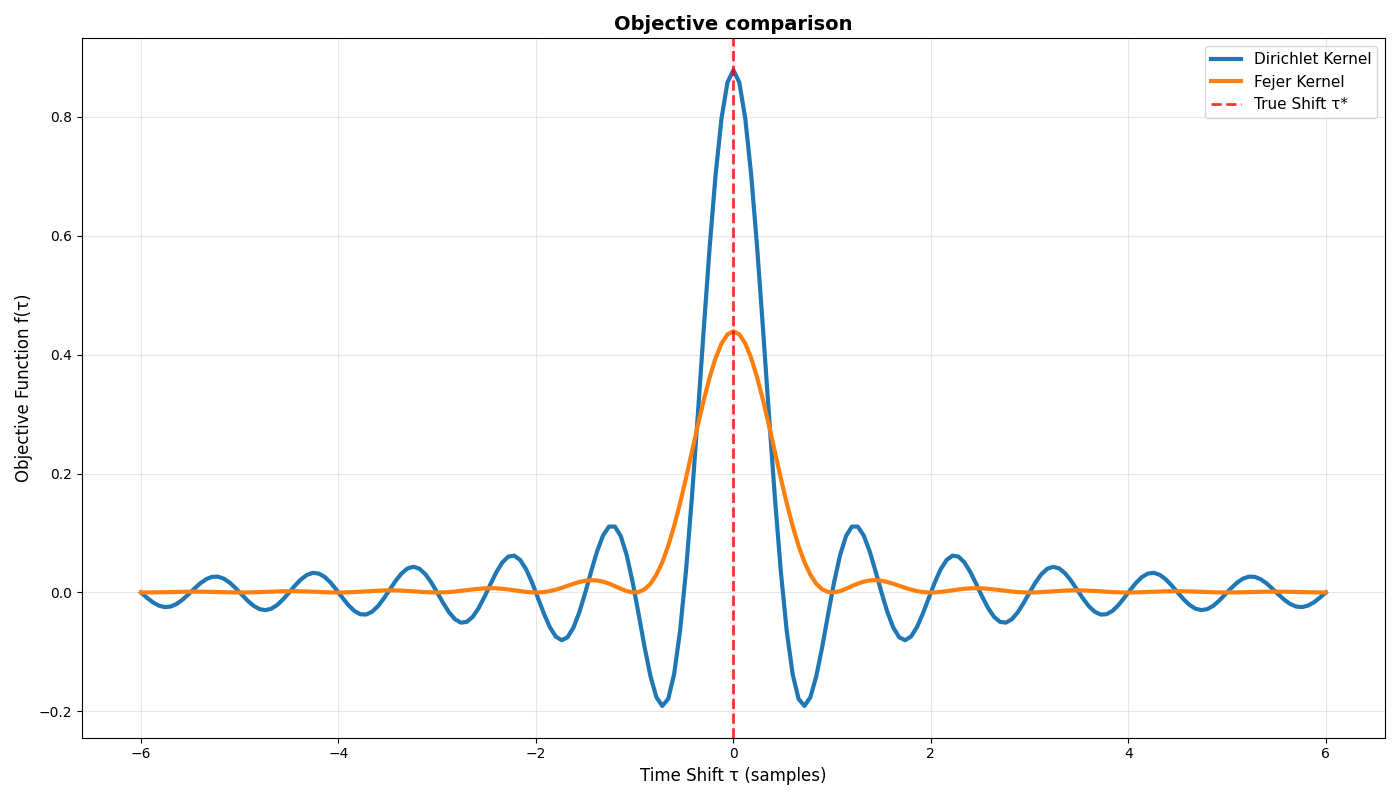
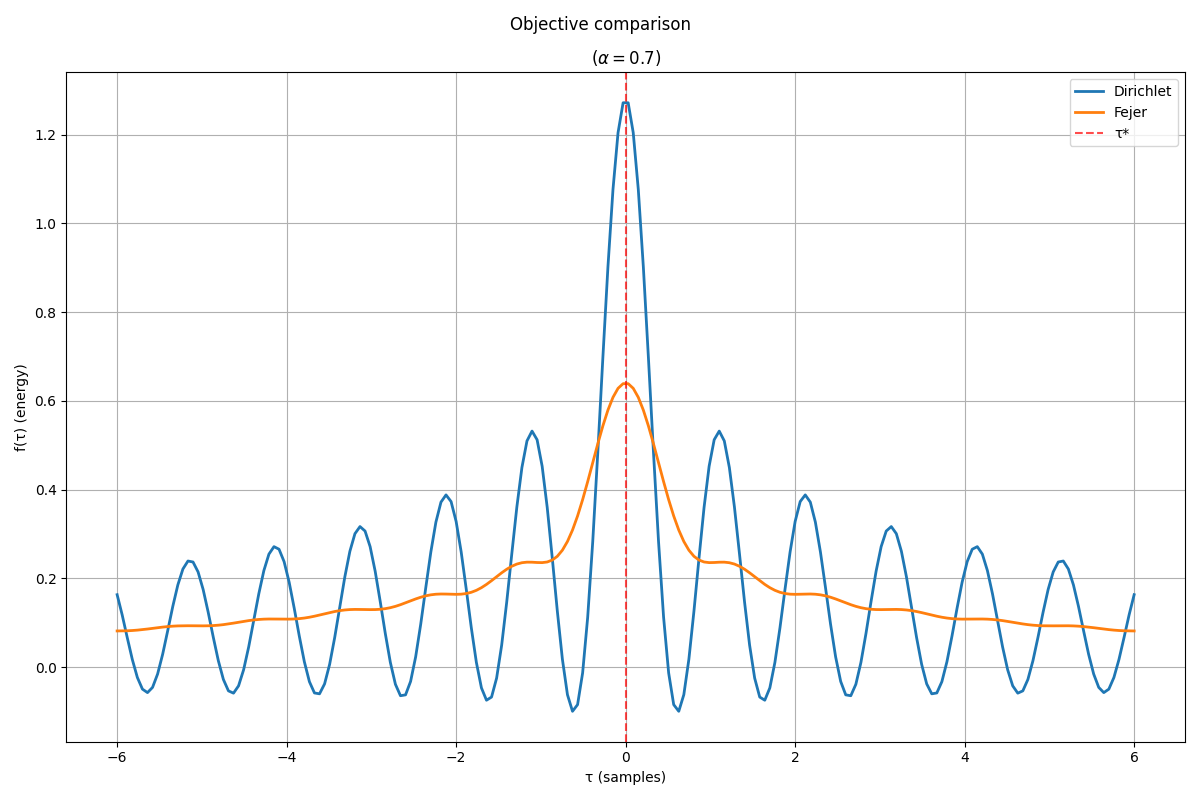
allow crawling

diff --git a/_posts/2025-10-20-optimization_pt-4.md b/_posts/2025-10-20-optimization_pt-4.md
@@ -15,9 +15,9 @@ description: "Optimization"
 ---
 As promised previously, this time we talk about cross-correlation phase transform (PHAT), a generalization of it and possible connections to our algorithm.
 This time we'll be taking a look at a 1D formulation of our problem, and see if anything new comes out of this.
-We'll also discuss occlusion models, and how they impact our Fourier formulation, as well as possible implications of this.
+We'll also discuss a potential noise model, and how it may impact our Fourier formulation.
 
-## 1D formulation
+## Problem: 1D formulation
 
 Recall that we are working with a 2D image modality. To think of the 1D formulation of the problem- imagine "slicing" a 3D motion video of dimensions (T, H, W) with respect to either horizontal/vertical axis, and looking at the intensity changes within some chosen axial 'strip' across the video, resulting in a *2D motion sequence*. 
 
@@ -78,7 +78,9 @@ plt.show()
 ![Integrated 1D](/assets/integrated_sigs.png)  
 
 Note that the integrated image begins triangular for $\tau=1$, gradually becoming trapezoidal and wider for successive integer shift values $\tau \in [2, N]$, until we can imagine it 'collapsing' to a line for arbitrarily large N. 
-Also recall from the [previous blogpost](https://ikavodo.github.io/optimization_pt-3/) that we briefly mentioned that $\operatorname{tri}(t) = \operatorname{rect}(t) \circledast \operatorname{rect}(t)$ 
+
+### Integration as a cross-correlation kernel
+Recall from the [previous blogpost](https://ikavodo.github.io/optimization_pt-3/) that we briefly mentioned that $\operatorname{tri}(t) = \operatorname{rect}(t) \circledast \operatorname{rect}(t)$ 
 
 Is this a coincidence? I think not! 
 To better understand this, let's express the integration operation in terms of a linear operation of the image with some kernel h.
@@ -169,26 +171,26 @@ $$
 </div>
 Where $\Delta n = n - n_0$.
 
-Is this a decent optimization objective? On the one hand we can be sure that by plugging in $n=n_0$ we obtain a global maxima, via 
+Is this a decent optimization objective? On the one hand plugging in $n=n_0$ we obtain a global maxima, via 
 <div>
     $$
     \frac{1}{N}\sum_{k=0}^{N-1}\cos{(\omega_k 0)} = \frac{1}{N}\sum_{k=0}^{N-1}1 \geq \sum_{k=0}^{N-1}\cos{(\omega_k \Delta n)}, n \neq n_0
     $$
 </div>
 
-On the other hand, it is enough to confirm using centered frequency tiles $k' = k - k_0, k_0=\frac{N-1}{2}$ that
+On the other hand, it is enough to confirm that
 <div>
 $$
-\sum_{k=0}^{N-1}{e^{j\omega_k (n - n_0)}} = e^{j\omega_{k_0}} \sum_{k'=-k_0}^{k_0}{e^{j\omega_{k'} (n - n_0)}} = e^{j\omega_{k_0}} * D_N(\Delta n) 
+\sum_{k=0}^{N-1}{e^{j\omega_k (n - n_0)}} = e^{j\omega_{k_0}} \sum_{k'=-\frac{N-1}{2}}^{\frac{N-1}{2}}{e^{j\omega_{k'} (n - n_0)}} = e^{j\omega_{k_0}} * D_N(\Delta n) 
 $$
 </div> 
-Where $D_N$ is the [Dirichlet kernel](https://en.wikipedia.org/wiki/Dirichlet_kernel) of order N. This can easily be factorized to
+Where we 'centered' our signal to obtain the [Dirichlet kernel](https://en.wikipedia.org/wiki/Dirichlet_kernel) of order N. This can easily be factorized to
 <div>
     $$
     D_{N}(x)=\sum _{k'=-k_0}^{k_0}e^{jk'x}=\frac {\sin \left(\frac{Nx}{2}\right)}{\sin(\frac{x}{2})}
     $$
 </div>  
-Where the right-hand form becomes highly oscillatory as N grows, meaning that this objective is insufficient for successful optimization. 
+Where the right-hand form becomes highly oscillatory as N grows, which is a big "no-no" for successful optimization. 
 
 Given what we've learned about the importance of bilinear interpolation as an effective low-pass filter in our original optimization objective, can we think of some 'equivalent' (dual) operation in the given case?
 
@@ -233,7 +235,7 @@ def fejer_weights(C: torch.Tensor):
     # normalized distance from DC [0..1]
     return 1.0 - k / (K - 1 + 1e-8)
 
-def gcc_phat_objective(x1: torch.Tensor,
+def phat_objective(x1: torch.Tensor,
                               x2: torch.Tensor,
                               tau: torch.Tensor,
                               exclude_dc: bool = True,
@@ -275,11 +277,11 @@ def gcc_phat_objective(x1: torch.Tensor,
 # -----------------------------
 def plot_kernel_comparison(ax, taus_grid, x1, x2):
     """Plot Dirichlet vs Fejér kernel comparison on single axes with alpha=1, no interpolation"""
-    dirichlet_vals = torch.tensor([float(gcc_phat_objective(x1, x2, t, method="dirichlet").detach())
+    dirichlet_vals = torch.tensor([float(phat_objective(x1, x2, t, method="dirichlet").detach())
                                    for t in taus_grid])
     ax.plot(taus_grid.numpy(), dirichlet_vals.numpy(), label='Dirichlet Kernel', linewidth=3)
     
-    fejer_vals = torch.tensor([float(gcc_phat_objective(x1, x2, t, method="fejer").detach())
+    fejer_vals = torch.tensor([float(phat_objective(x1, x2, t, method="fejer").detach())
                                    for t in taus_grid])
     ax.plot(taus_grid.numpy(), fejer_vals.numpy(), label='Fejér Kernel', linewidth=3)
     
@@ -303,12 +305,10 @@ plt.tight_layout()
 plt.show()
  ```
 
-![objective kernels](/assets/gcc_phat_obj.png)  
-It becomes clear that although the Fejér kernel proves a better optimization objective than the Dirichlet, *it is not a sufficient optimization objective in itself* (what happens if we generate an initial shift which is arbitrarily far from the ground-truth shift?). 
+![objective kernels](/assets/phat_obj.png)  
+While the Fejér kernel improves on the Dirichlet, *it is not a sufficient optimization objective in itself* (what happens if we generate an initial shift which is arbitrarily far from the ground-truth shift?). We can assume then that phase-information in itself is most probably insufficient for establishing a *useful* optimization objective. 
 
-We fathom from this, that regardless of additional smoothing operations which can be applicable and yield better convergence, *phase-information is most probably not sufficient in itself for establishing a feasible optimization objective*. 
-
-Given this knowledge, how can we further improve our PHAT-based optimization objective?
+Given this assumption, how can we further improve our PHAT-based optimization objective?
 
 ## Generalized Cross-Correlation (GCC)
 
@@ -322,24 +322,33 @@ where:
 - $ G_{xy}(f) $ is the cross-power spectrum
 - $ \Psi(f) $ is the *spectral-weighting* function
 
-And the rest is simply the inverse Fourier Transform of the weighted cross-power spectrum.
+And the rest is simply the inverse Fourier Transform of the spectrally-weighted cross-power spectrum. By applying Fejer weights in the frequency domain, we already have an example via $\Psi(f) = 1-{\frac {\|k\|}{N}}_{\|k\|< N-1}$, where we've seen that this operation is generally useful for optimization. Let's now approach this spectral weighting function from a different angle! 
 
-Now what can we choose as our spectral-weighting function? To obtain our original phase-correlation algorithm it is sufficient to pass a *zero-phase filter*
-$ \Psi(f) = \frac{1}{\|G_{xy}(f)\|}$, which is the equivalent of normalizing the cross-power spectrum. However, we could choose any other filter $\Psi$ which suits our purpose.
-
-A slight generalization of this idea which gives us a nice *family* of filters is to formulate $ \Psi(f) = 1/\|G_{xy}(f)\|^{\alpha}$, for $ \alpha \in [0, 1]$.
-For $ \alpha =1$ we get our original PHAT formulation, and for $ \alpha =0$ we have the original cross-power spectrum $G_{xy}$. We call this variant then *GCC-PHAT*, on account of its generating a whole "spectrum" (ha) between the phase-transformation and cross-power spectrum variants.
+To obtain our original PHAT formulation we can set "normalized" spectral weighting via
+$ \Psi(f) = \frac{1}{\|G_{xy}(f)\|}$. Now can we "tweak" this in a way which gives us more flexibility? The following idea gives us a *family* of such filters:
+<div>
+    $$ \Psi(f) = \frac{1}{\|G_{xy}(f)\|^\alpha}, \quad \alpha \in [0, 1]$$.
+</div> 
+For $ \alpha =1$ we get our original PHAT formulation, and for $ \alpha =0$ we have the original cross-power spectrum $G_{xy}$. We call this variant then *GCC-PHAT*, on account of its generating a whole "spectrum" between the phase-transformation and cross-power spectrum variants.
 
 Let's see the effect of varying this alpha on our optimization objective, slightly revising our previous code
 
 ```python
 
-def gcc_phat_objective(..., # all previous arguments
-                              alpha=1, # new
+def gcc_phat_objective(x1: torch.Tensor,
+                              ... # as previously
+                              alpha : float = 1.0
                              ) -> torch.Tensor:
-    ...     # as previously
-    C_normed = CPS / (mag ** alpha)
-    ...     # as previously
+    """
+    f(tau) = Re{ mean_k [ C_normed[k] * exp(-i*ω_k*tau) ] }   (method="phat")
+    or a Fejér-weighted surrogate (method="fejer").
+    We maximize f(tau) over τ.
+    """
+    # as previously
+    ...
+    mag = torch.clamp(torch.abs(CPS), min=1e-12) ** alpha
+    ... # as previously
+    return dirichlet.mean()
     
 
 def plot_kernel_comparison(ax, taus_grid, x1, x2, alpha=1):
@@ -361,15 +370,13 @@ plt.tight_layout()
 plt.show()
  ```
 
-![objective kernels alpha](/assets/gcc_phat_obj_alpha.png)  
+![objective kernels alpha](/assets/gcc_phat_obj.png)  
 
-Now the Fejér-smoothed objective is starting to look like decent! A randomly-initialized shift value has some guarantee of converging to the correct ground-truth shift with a 'smart'-enough optimizer. Can we intuitively understand why this is the case? 
-
-There are additional improvements which can be made to reduce some swells (high-frequency components) in the optimization landscape. For example- what would be the effect of integrating the *Fejér* kernels as we previously did to the Dirichlets (*Hint*- integration is a smoothing operation, and thus a low-pass filter)?
+Now the Fejér-smoothed objective is starting to look like a decent optimization objective! Note that there are additional improvements which can be made to reduce some swells (high-frequency components) in the optimization landscape. For example- what would be the effect of integrating the *Fejér* kernels as we previously did to the Dirichlets (*Hint*- integration is a smoothing operation, and thus a low-pass filter)?
 
 ### GCC-PHAT for noisy signal sequences
 Suppose that we are working with a video consisting of *noisy* frames, where the noise is static (we will see later what and how this has to do with occlusion). 
-This means that we model each noisy frame as $I_t = W^t(I_0, \tau^*) + V$, with V representing the constant noise mask. 
+This means that we model each noisy frame as $I_t = W^t(I_0, \tau^*) + V$, with $V$ representing the constant noise mask. 
 Now, we want to estimate a cohesive-translation motion model (same translation between each pair of frames) over this video. 
 
 A naive approach would be to compute phase-correlation between a given pair of images. Note that for *any* such pair some variant of GCC-PHAT would yield a translation of $\tau=0$ (why?).
@@ -379,21 +386,21 @@ We obtain a pair of integrated images by partitioning our video into even and od
 <div>
 $$
 I_{even} = \frac{2}{N}\sum_{t=2m}^{N-1} W^t(I_t, \tau) = \frac{2}{N}\sum_{t=2m}^{N-1} e^{-j\omega t\phi} \cdot (e^{-j\omega t\phi^*}  \mathcal{F} \lbrace I_0 \rbrace + \mathcal{F} \lbrace V \rbrace) \\ 
-= \frac{2}{N}(\sum_{m=0}^{\frac{N-1}{2}} e^{-j\omega 2m\Delta \phi} \mathcal{F} \lbrace I_0 \rbrace + \sum_{m=0}^{\frac{N-1}{2}} e^{-j\omega 2m\phi} \mathcal{F} \lbrace V \rbrace) = \left( \mathcal{H_{\frac{N}{2}}}(\Delta \phi) \cdot \mathcal{F} \lbrace I_0 \rbrace + \mathcal{H_{\frac{N}{2}}}(\phi) \cdot \mathcal{F} \lbrace V \rbrace \right)
+= \frac{2}{N}(\sum_{m=0}^{\frac{N-1}{2}} e^{-j\omega 2m\Delta \phi} \mathcal{F} \lbrace I_0 \rbrace + \sum_{m=0}^{\frac{N-1}{2}} e^{-j\omega 2m\phi} \mathcal{F} \lbrace V \rbrace) = \left( \mathcal{H_{\frac{N}{2}}}(2\Delta \phi) \cdot \mathcal{F} \lbrace I_0 \rbrace + \mathcal{H_{\frac{N}{2}}}(2\phi) \cdot \mathcal{F} \lbrace V \rbrace \right)
 $$
 </div>
 where $\phi = \frac{\tau}{W}, \quad \Delta \phi = \frac{\tau - \tau^*}{W}$ and
-   $ \mathcal{H_{\frac{N}{2}}}(\phi)$ is a moving-average filter of order $\frac{N}{2}$ (see [previous blog-post](https://ikavodo.github.io/optimization_pt-3/)) with frequency responses parameterized by $\phi$.
+   $ \mathcal{H_{\frac{N}{2}}}(2\phi)$ is a moving-average filter of order $\frac{N}{2}$ (see [previous blog-post](https://ikavodo.github.io/optimization_pt-3/)) with frequency responses parameterized by $\phi$.
 
 $I_{odd}$ is constructed similarly over frames with odd time-steps, with the only exception 
 <div>
     $$
-    I_{odd} = \frac{2}{N}\sum_{t=2m+1}^{N-1} W^{t-1}(I_t, \tau) = ...
+    I_{odd} = \frac{2}{N}\sum_{t=2m+1}^{N-1} W^{\bf{t-1}}(I_t, \tau) = ...
     $$
 </div> 
-Meaning that all odd-frames are mapped translated back to the *reference odd frame* (why we do it this way will become clear soon).
+Meaning that all odd-frames are translated back relatively to the *first odd frame* (why we do it this way will become clear soon).
 
-Note that of the two moving-average filters derived in the equation, $\mathcal{H_{\frac{N}{2}}}(\Delta \phi)$ depends on the ground-truth shift, while $\mathcal{H_{\frac{N}{2}}}(\phi)$ doesn't, meaning that noise reduction is *independent* of the ground-truth shift. On the other hand, for 'zero-motion' ($\tau=0$) noise energy is maximised, which creates a *spurious* (false) maxima in our optimization problem. This is the reason why computing phase correlation between any pair of noisy images doesn't work in this case! 
+Note that of the two moving-average filters derived in the equation, $\mathcal{H_{\frac{N}{2}}}(2\Delta \phi)$ depends on the ground-truth shift, while $\mathcal{H_{\frac{N}{2}}}(2\phi)$ doesn't, meaning that noise reduction is *independent* of the ground-truth shift. On the other hand, for 'zero-motion' ($\tau=0$) noise energy is maximised, which creates a *spurious* (false) maxima in our optimization problem. This is the reason why computing phase correlation between any pair of noisy images doesn't work in this case! 
 
 Now coming back to our integrated images, note that 
 <div>
@@ -401,8 +408,9 @@ Now coming back to our integrated images, note that
     I_{even} = e^{-j\omega \phi^*} \cdot I_{odd}
     $$
 </div>
+Where $e^{-j\omega \phi^*}$ is a ground-truth phase shift. 
 
-From here computing GCC-PHAT is straightforward, where we have  
+From here on computing GCC-PHAT is quite straightforward:  
 
 <div>
     $$
@@ -422,20 +430,20 @@ Note that optimizing over the magnitude of this signal
     \sum_{k \neq 0} ||\mathcal{H_{\frac{N}{2}}}(\Delta \phi) \cdot \mathcal{F} \lbrace I_0 \rbrace + \mathcal{H_{\frac{N}{2}}}(\phi) \cdot \mathcal{F} \lbrace V \rbrace|^2 * e^{-j\omega \phi^*}| = \sum_{k \neq 0} |\mathcal{H_{\frac{N}{2}}}(\Delta \phi) \cdot \mathcal{F} \lbrace I_0 \rbrace + \mathcal{H_{\frac{N}{2}}}(\phi) \cdot \mathcal{F} \lbrace V \rbrace|^2
     $$
 </div>
-is equivalent to our original optimization objective, up to the order of the moving average filter!
+is equivalent to our original optimization objective, up to the order of the moving average filter! It remains to compare these two (next blogpost). 
 
-Now as N grows we have  
+As N grows we have  
 <div>
     $$
-    |\mathcal{H_{\frac{N}{2}}}(\Delta \phi) \cdot \mathcal{F} \lbrace I_0 \rbrace + \mathcal{H_{\frac{N}{2}}}(\phi) \cdot \mathcal{F} \lbrace V \rbrace|^2 * e^{-j\omega \phi^*} \approx \lim_{N \to +\infty} |\mathcal{H_{\frac{N}{2}}}(\Delta \phi) \cdot \mathcal{F} \lbrace I_0 \rbrace + \frac{\mathcal{F} \lbrace V \rbrace}{\sqrt{\frac{N}{2}}}| * e^{-j\omega \phi} \\
+    \lim_{N \to +\infty} |\mathcal{H_{\frac{N}{2}}}(\Delta \phi) \cdot \mathcal{F} \lbrace I_0 \rbrace + \mathcal{H_{\frac{N}{2}}}(\phi) \cdot \mathcal{F} \lbrace V \rbrace|^2 * e^{-j\omega \phi^*} \approx \lim_{N \to +\infty} |\mathcal{H_{\frac{N}{2}}}(\Delta \phi) \cdot \mathcal{F} \lbrace I_0 \rbrace + \frac{\mathcal{F} \lbrace V \rbrace}{\sqrt{\frac{N}{2}}}| * e^{-j\omega \phi} \\
     = |\mathcal{H_\infty}(\Delta \phi) \cdot \mathcal{F} \lbrace I_0 \rbrace| * e^{-j\omega \phi}
     $$
 </div>
-Using the fact that the moving-average filter reduces noise by approximately the square-root of its order (see explanation elsewhere), meaning that the effect of the noise-component becomes negligable compared to that of the signal.
+Using the fact that the moving-average filter reduces noise by approximately the square-root of its order (see explanation elsewhere), meaning that the effect of the noise-component becomes negligable compared to that of the signal. Good news for us!
 
 ### Connecting the two optimization objectives
 
-Finally, note that we can "revert" our GCC-PHAT objective into the *exact* previous objective by computing the integrated image from integrated pairs by
+We can "revert" our GCC-PHAT objective into the *exact* energy (variance) objective by computing the integrated image from integrated pairs by
 <div>
     $$
     \sum_{k \neq 0} |\frac{I_{even} + e^{-j\omega \phi} \cdot I_{odd}}{2}|^2 = \sum_{k \neq 0}  |\frac{1}{N}  \cdot \left( \sum_{t=2m}^{N-1} W^t(I_t, \tau) + e^{-j\omega \phi} \cdot \sum_{t=2m+1}^{N-1} W^{t-1}(I_t, \tau)\right)|^2 \\
@@ -443,15 +451,15 @@ Finally, note that we can "revert" our GCC-PHAT objective into the *exact* previ
     $$
 </div> 
 
-We've essentially created a link between our two optimization objectives, where we can choose either depending on our need for flexibility, computational constraints.
+We've essentially created a link between our two optimization objectives, where we can choose to branch out to either from some intermediate computation, depending on our need for flexibility, computational constraints, etc...
 
 ## Conclusion
 
-We now have "pure" energy (magnitude) and phase "flavors" of our GCC-PHAT objective, obtainable by choosing spectral-weighting factors $\alpha\in\lbrace {0,1} \rbrace$ respectively, where we've seen that $\alpha=0$ gives us our previous variance optimization objective, and $\alpha=1$ the PHAT optimization objective (up to necessary interpolation/smoothing operations). Comparing these two objectives, the variance objective maximizes coherent energy, where an incorrect shift creates destructive interference. On the other hand, for the PHAT objective the phase component is used to align a sharp correlation peak, which is smoothed by the Fejér kernel.
+We now have "pure" energy (magnitude) and phase "flavors" of our GCC-PHAT objective, obtainable by choosing spectral-weighting factors $\alpha\in\lbrace {0,1} \rbrace$ respectively. Comparing these two objectives, the first maximizes coherent energy, while in the second the phase component is used to align a sharp correlation peak, which is smoothed by the Fejér kernel (recall it is the 'dual' of the bilinear interpolation weights!).
 
-We can treat the first as a more "global" method, while the second is more "local". The need for a trade-off between these two comes up in the case of noisy signals, in which the additive nature of the Fourier transform causes both phase *and* magnitude information to be offset/randomized by the noisy component. It makes sense then in this case to utilize a mix of *both* when computing the ground truth shift. 
+The need for a trade-off comes up in the case of noisy signals, in which the additive nature of the Fourier transform causes both phase *and* magnitude information to be offset/randomized by the noisy component. It makes sense then in this case to utilize a mix of *both* when computing the ground truth shift. 
 
-We'll make a comparison of the utility of these different objectives in the next blogpost, using samples of clean and noisy image pairs.
+We'll compare these different objectives empirically in the next blogpost.
 
 Until then!
 
